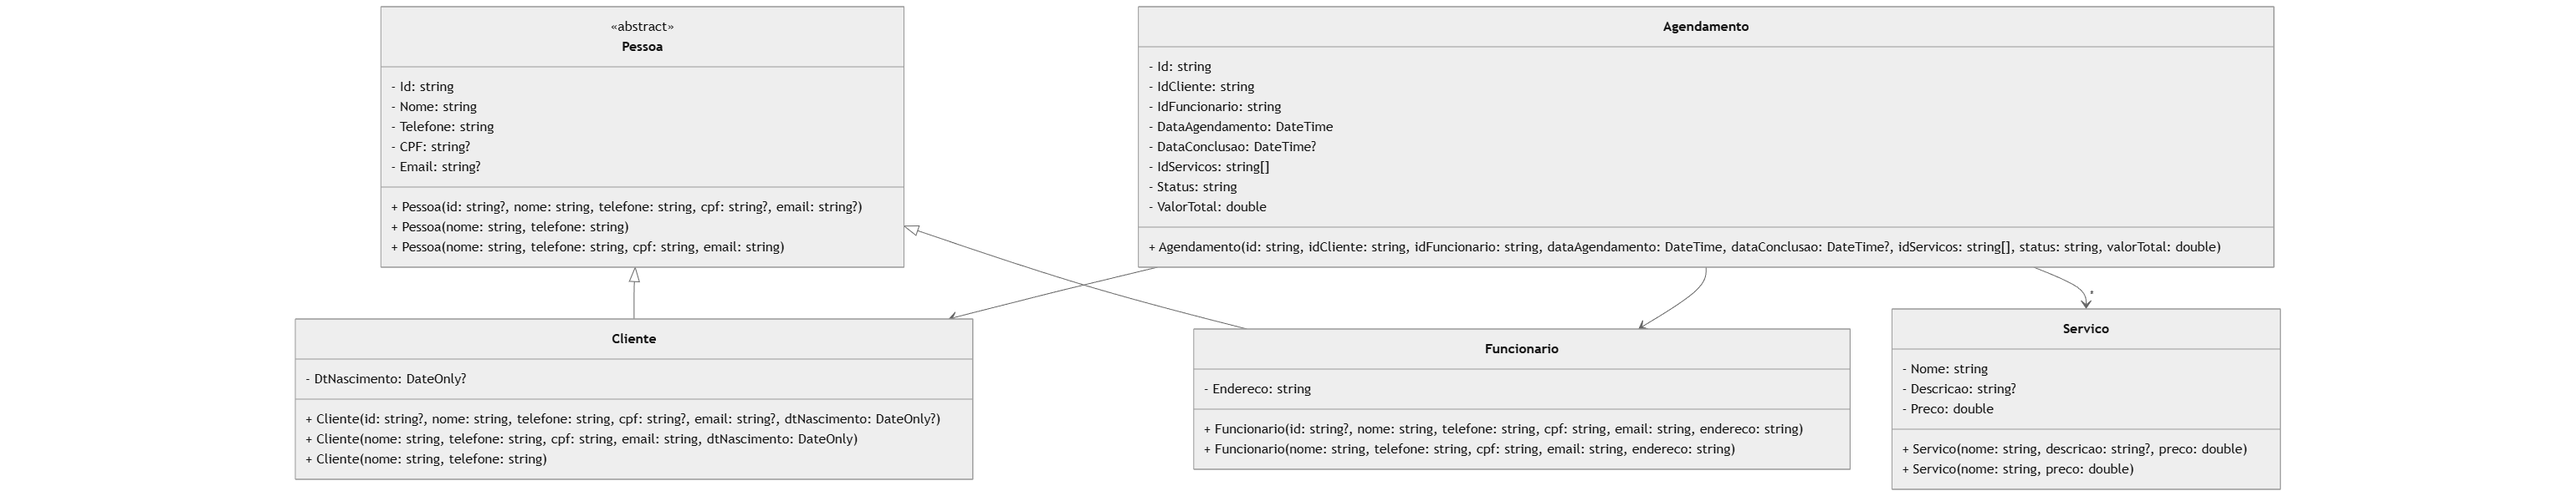
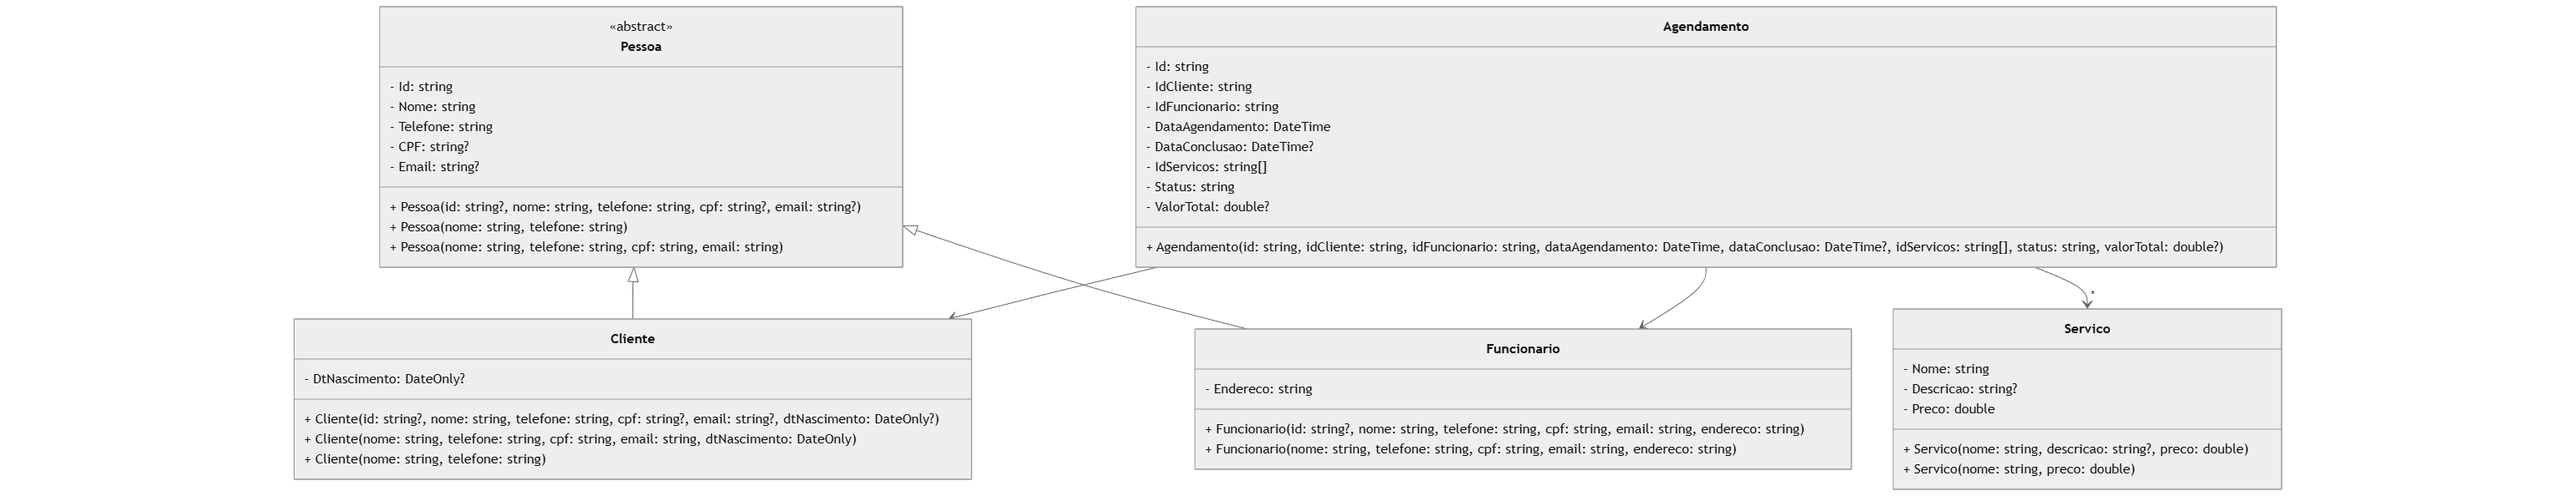
Corrigir modelo Agendamento

diff --git a/api/Models/Agendamento.cs b/api/Models/Agendamento.cs
@@ -52,7 +52,7 @@ namespace api.Models
         public string Status { get; set; }
 
         [Range(0.01, double.MaxValue, ErrorMessage = "{0} deve ser um valor positivo!")]
-        public double ValorTotal { get; set; }
+        public double? ValorTotal { get; set; }
 
         public Agendamento(
             string id,
@@ -60,8 +60,9 @@ namespace api.Models
             string idFuncionario,
             DateTime dataAgendamento,
             DateTime? dataConclusao,
+            string[] idServicos,
             string status,
-            double valorTotal
+            double? valorTotal
         )
         {
             Id = id;
@@ -70,9 +71,10 @@ namespace api.Models
             DataAgendamento = dataAgendamento;
             DataConclusao = dataConclusao;
             Status = status;
+            IdServicos = idServicos;
             ValorTotal = valorTotal;
         }
 
-        // Aqui vamos utilizar sobrecargas para deixar explícita a criação de um agendamento sem data de conclusão e valor total, já que isso é algo comum.
+        // Aqui não vamos utilizar sobrecargas para deixar explícita a criação de um agendamento sem data de conclusão e valor total, já que isso é algo comum.
     }
 }
